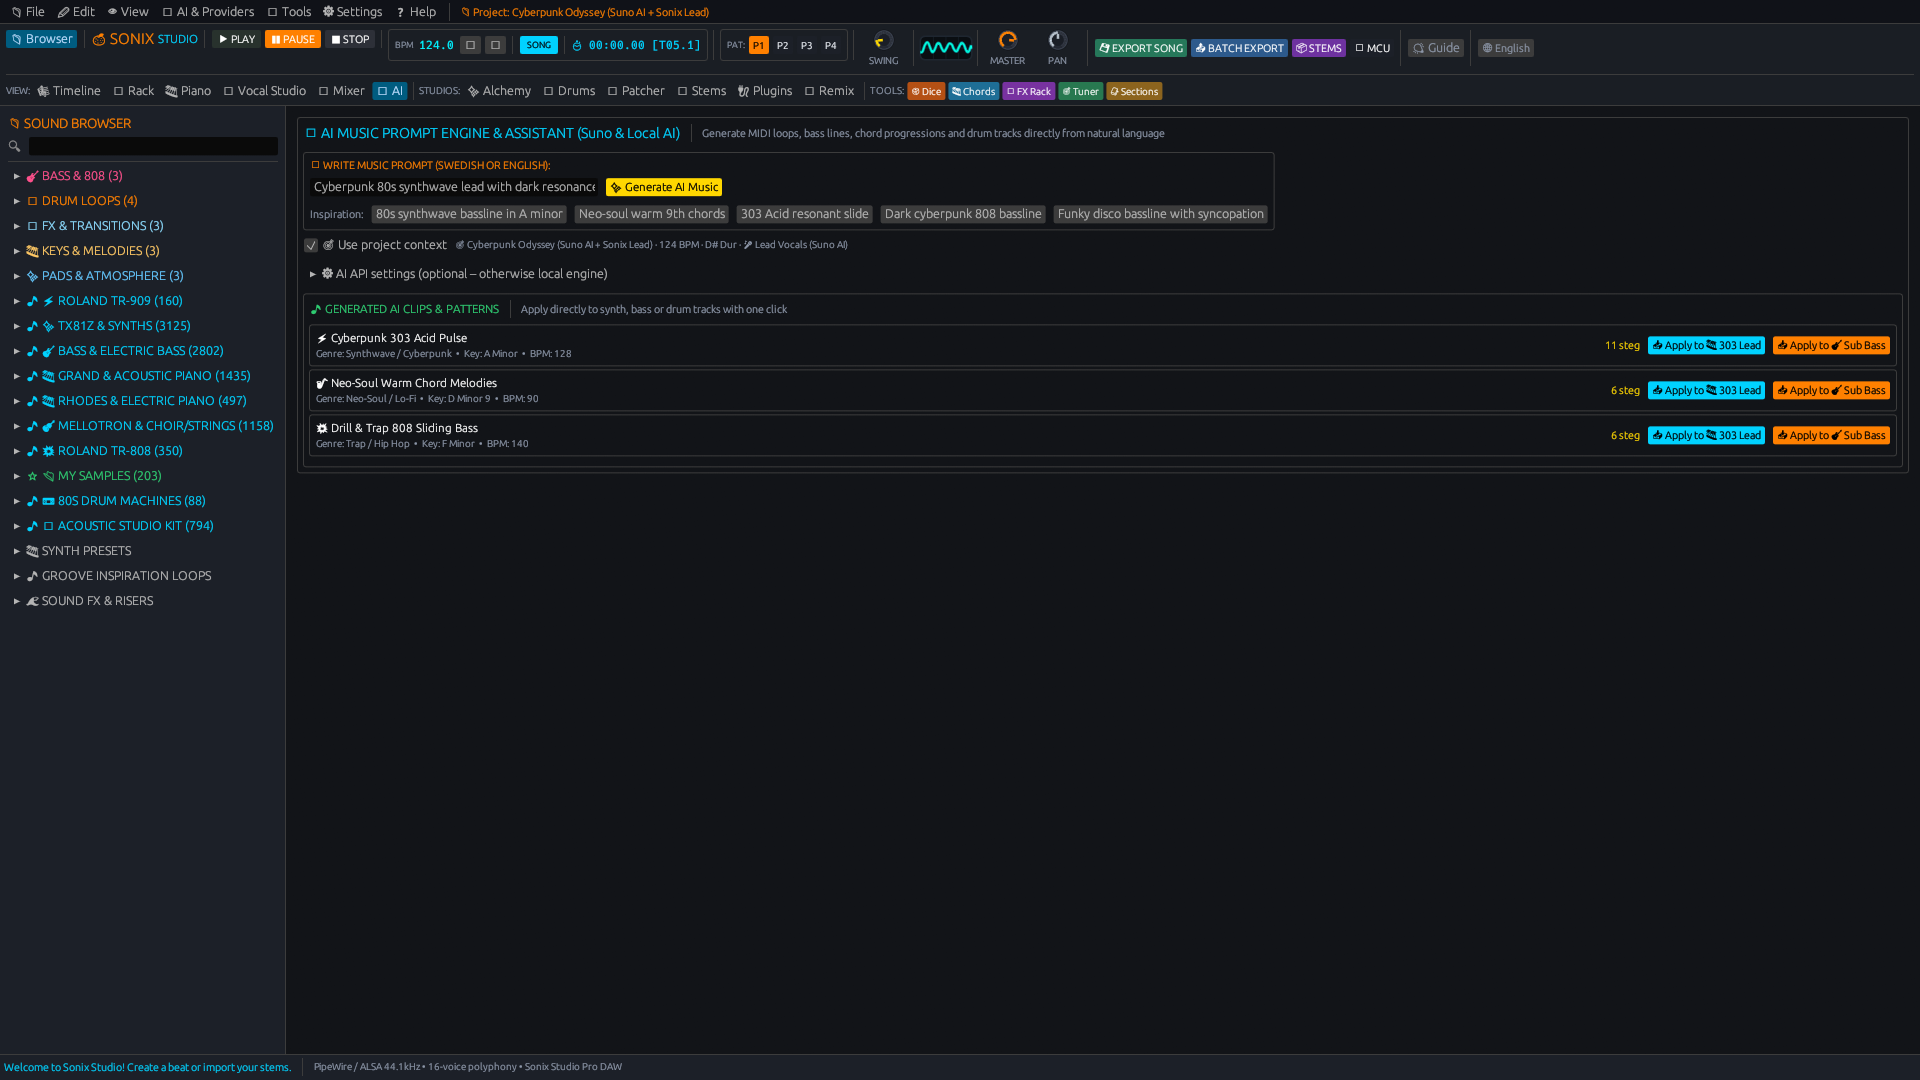
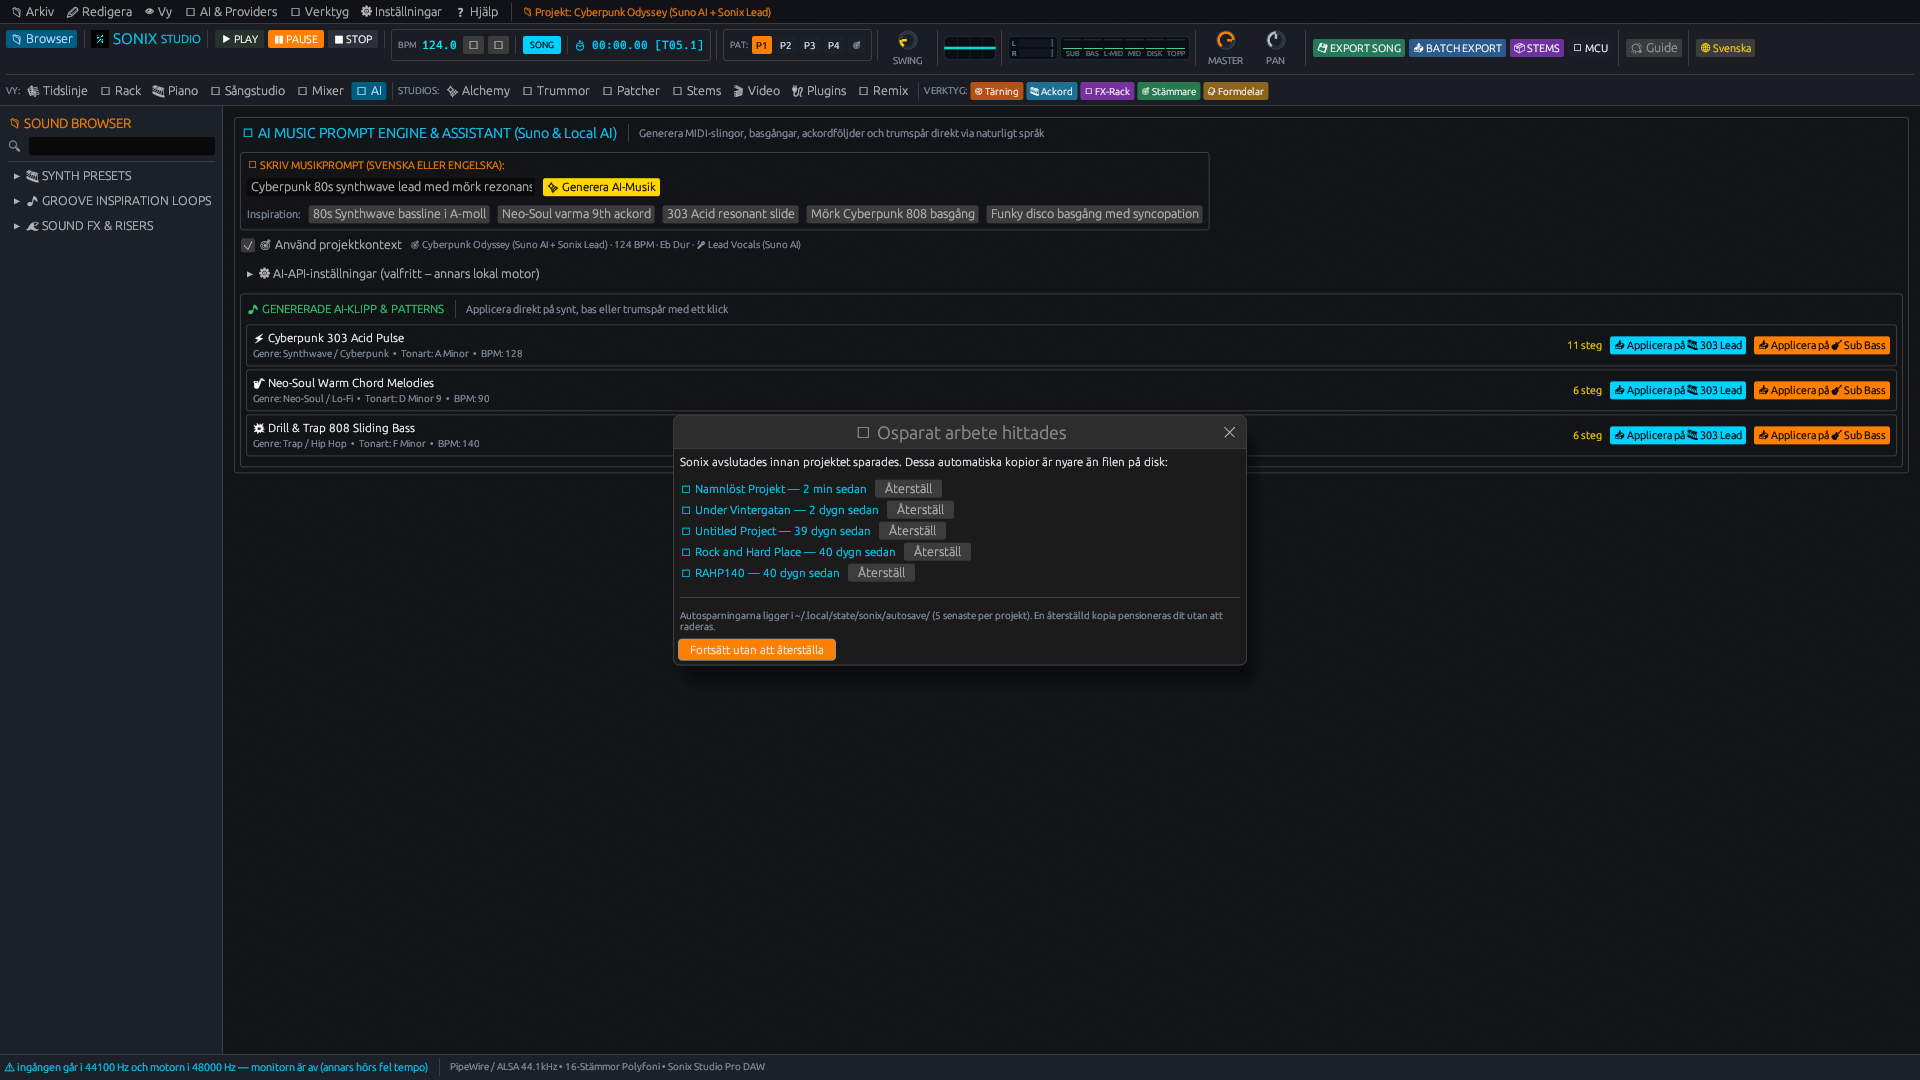
docs: UX-audit — 13 axlar mätta, 362 färger / 22 storlekar / 88 emoji är de tre lagren

diff --git a/UX-AUDIT.md b/UX-AUDIT.md
@@ -1,0 +1,104 @@
+# UX-hantverk: Sonix mot Soundtrap
+
+> Mätt 2026-10-23 på `master` (`bd44ded`). **Vår sida är mätt, deras är observerad.**
+> Våra 30 skärmdumpar är tagna ur den riktiga appen (`sonix --capture-screenshots`, 1920×1080,
+> demoläge) och ligger i [`screenshots/`](screenshots/). Soundtraps studio kräver inloggning, så
+> deras kolumn är läst ur deras egna publicerade studiobilder — siffrorna där är **uppskattningar
+> ur en bild, inte mätningar**. Allt om vår kod är räknat; kommandona står i §6.
+
+## 1. Svaret i en rad
+
+Av 13 hantverksaxlar är **1 i nivå, 6 delvis, 6 inte**. Men de sex som faller är inte sex problem:
+de är **tre lager** — typografi, färg, ikoner — plus en hierarki som faller ut ur dem.
+Det som känns hemsnickrat är alltså inte mängden kod (108 782 rader i `src/`), utan att varje
+skärm får bestämma sina egna storlekar, färger och glyfer.
+
+## 2. Axel för axel
+
+| Axel | Sonix (mätt) | Soundtrap (observerat) | Dom |
+| :--- | :--- | :--- | :---: |
+| Typografisk skala | 22 storlekar, halvsteg (9,5 · 10,5 · 11,5 · 12,5 · 13,5) | ~3 storlekar, en familj, två vikter | ✗ |
+| Färgsystem | 16 tokens i `theme.rs`, men **642 literala `from_rgb` → 362 unika färger i 22 nyanskluster**; 6 accenter som betyder olika saker | 1 accent (violett) + 2 innehållsfärger (röd, ockra), ~10 tokens | ✗ |
+| Ikonografi | **88 distinkta emoji, 1 350 förekomster** i `src/ui`; emoji ligger även i i18n-nycklarna | en linjeikonfamilj, ~1,5 px, 16–20 px stora | ✗ |
+| Komponentfamilj | 12 publika widgetfunktioner mot 235 `pub fn` i `src/ui`; 287 råa `ui.button(`; 5–6 kontrollhöjder i samma rad | en knappfamilj i två storlekar (28–32 px) | ✗ |
+| Primär handling | orange är markering, aktivt steg, primär-CTA **och** avvisa-knapp; i återställningsdialogen är "Fortsätt utan att återställa" den enda fyllda knappen (`modals.rs:952`) | en fylld CTA per yta (Export), allt annat neutralt | ✗ |
+| Lager och fokus | 29 `egui::Window::new`, **0 scrim/dim** — modaler flyter över en fullt upplyst bakgrund | modaler/paneler med egen elevation, bakgrunden dämpas | ✗ |
+| Avståndsrytm | 9 `add_space`-värden, 4/6/8 dominerar; 4 px bas finns | 4/8-bas | ◐ |
+| Panelgrid och linjering | spårrad 46 px; ytterkanter linjerar, inre innehåll glider (master saknar EQ-rad) | spårrader i linje med lanes, fast 3-zonslayout | ◐ |
+| Hover-hjälp | 199 `on_hover_text` mot 287 knappar och 21 vyer | verktygstips på det mesta | ◐ |
+| Tangentbord | 50 unika tangenter, 47 `key_pressed`-ställen, **ingen shortcut-tabell** (0 `consume_shortcut`/`KeyboardShortcut`) | okänt (webb), men dokumenterade genvägar | ◐ |
+| Språk | svensk bas, men engelska etiketter kvar (EXPORT SONG, STEMS, SOUND BROWSER, SWING); 7 språk kompletta | engelska + lokalisering av marknadssidan | ◐ |
+| Första start | demodata + 19 spårmallar + hjälpguide (F1); återställningsdialogen dyker upp i demoläget | låtmallar direkt i starten, guider | ◐ |
+| Mörkt tema och grundpalett | `theme.rs` med 16 namngivna färger, mörka paneler genomgående | mörkt tema, ~6 gråsteg | ✅ |
+
+**Räknat:** 1 ✅ · 6 ◐ · 6 ✗.
+
+## 3. De tre lagren som ger intrycket
+
+### 3.1 Typografin har ingen skala
+22 storlekar, och de ligger på halvsteg (`10.5`, `11.5`, `12.5`) — det är ögat som justerar per skärm,
+inte ett system som väljer. En halv pixel är inte en hierarki; det är 22 beslut som var för sig såg
+rimliga ut.
+**Fix:** fem steg (`10 · 11,5 · 13 · 16 · 20`) i `Theme` som `Type::SMALL/NORMAL/…`, mekanisk
+ersättning av 22 värden. **Mät efter:** `rg -o 'size\(([0-9.]+)\)' src -r '$1' | sort -u | wc -l` → 5.
+
+### 3.2 Färgen är inte ett system
+16 namngivna färger i `theme.rs`, men **642 literala `Color32::from_rgb` ger 362 unika färger**,
+varav 137 är varianter av samma blå nyans (210°). Sex accenter (cyan, orange, grön, gul, lila, röd)
+används både som markering, status, spårfärg och primär handling — samma gul betyder "vald rad" i
+en panel och "aktivt steg" i nästa.
+**Fix:** färg bara via `Theme::` (noll literaler utanför `theme.rs`), och accentrollerna delas upp:
+*markering* / *innehåll* / *status* / *primär*. **Mät efter:**
+`rg -c 'Color32::from_rgb' src -g '*.rs' | awk -F: '{s+=$2} END{print s}'` → 0 utanför `theme.rs`.
+
+### 3.3 Ikonerna är emoji
+**88 distinkta emoji i 1 350 UI-strängar** — 🎹 48 gånger, 🎵 44, ⚡ 44, 🥁 40 … De ritas av egui:s
+emoji-typsnitt, alltså med olika optisk storlek och vikt per glyf, och de sitter **inuti
+i18n-nycklarna** (`"🛟 Osparat arbete hittades"`). Det är därför raderna i menyer och knappar inte
+linjerar optiskt: det finns ingen ikonfamilj, bara text som råkar börja med en bild.
+**Fix:** en `icon()`-hjälpare + ett eget glyfset, och emoji **strippas i renderingslagret** — inte i
+nycklarna, för då måste 2 185 strängar × 7 språk göras om. **Mät efter:**
+`rg -o '"[^"]*"' src/ui | rg -o '\p{Emoji_Presentation}' | sort -u | wc -l` → 0.
+
+## 4. Fyra fynd som är UX-fel, inte smak
+
+1. **Den loudaste knappen i återställningsdialogen är den som kastar arbetet.** "Fortsätt utan att
+   återställa" är den enda fyllda (orange) knappen (`ui/app/modals.rs:952`); "Återställ" är en platt
+   standardknapp. Den primära handlingen ska vara den som räddar arbetet.
+2. **Modaler dämpar inte bakgrunden.** 29 `egui::Window::new` och **noll** scrim/dim i `src/ui`;
+   tidslinjens cyan/magenta klipp konkurrerar med dialogens text (syns i `screenshots/01`).
+3. **Språket är blandat.** "EXPORT SONG", "BATCH EXPORT", "STEMS", "SOUND BROWSER", "SWING",
+   "Guide" står kvar på engelska i en svensk menyrad. Antingen översätts de eller så väljs engelska
+   överallt — nu är det två system i samma rad.
+4. **362 färger betyder att ingen kan säga vad en färg betyder.** När en skärm ska ändras finns ingen
+   sanning att ändra i; man måste leta literaler.
+
+## 5. Det som redan håller
+
+- **Mörkt tema med namngivna panelfärger** — grunden finns, det är användningen som saknar disciplin.
+- **4 px-bas i avstånden** (4/6/8 dominerar) — rytmen är nästan där.
+- **7 kompletta språk** och 2 185 källsträngar: lokaliseringen är byggd, det är etiketterna som är kvar.
+- **Skärmdumpsharnessen** (30 mål, `--capture-screenshots`) — de flesta projekt *kan inte* fotografera
+  sin egen UI; det gör varje påstående i det här dokumentet kontrollerbart.
+- **Informationstätheten** är en DAW-kvalitet, inte ett fel: Soundtrap är glesare för att de gör mindre.
+
+## 6. Så mäts det om
+
+```bash
+rg -o 'size\(([0-9.]+)\)' src -r '$1' -g '*.rs' | sort -u | wc -l          # typografi: 22 → mål 5
+rg --no-filename -c 'Color32::from_rgb' src -g '*.rs' | awk '{s+=$1} END{print s}'   # färg: 642 → mål 0 utanför theme.rs
+rg -o '"[^"]*"' src/ui -g '*.rs' | rg -o '\p{Emoji_Presentation}' | sort -u | wc -l  # ikoner: 88 → mål 0
+rg --no-filename -c 'egui::Window::new' src/ui -g '*.rs' | awk '{s+=$1} END{print s}' # modaler: 29
+rg --no-filename -c 'on_hover_text' src -g '*.rs' | awk '{s+=$1} END{print s}'       # hjälp: 199
+```
+
+## 7. Vad jag inte mätte
+
+- **Soundtraps siffror är ur bilder.** En av bilderna är ett foto av en laptop, så deras pixelmått är
+  normaliserade uppskattningar. Riktningen är säker, decimalerna är det inte.
+- **Inget klick-test.** Jag har inte kört appen och mätt tiden till "första låt" — den mätningen
+  (steg, klick, sekunder) är nästa naturliga prov och säger mer om UX än någon färgräkning.
+- **Kontrast är inte räknat per yta.** `Theme::TEXT_MUTED` används 248 gånger, ofta på 10 px text —
+  misstanken om för låg kontrast är inte verifierad mot WCAG-tal här.
+- **Emoji-räkningen är textbaserad.** Hur de faktiskt ritas (egui:s typsnitt, fallback-glyfer) är
+  bedömt ur skärmdumparna, inte ur teckentabeller.

diff --git a/ROADMAP.md b/ROADMAP.md
@@ -9,7 +9,7 @@
 **Läsordning:** den här filen för läget · [`FL-STUDIO-INVENTORY.md`](FL-STUDIO-INVENTORY.md) och
 [`ABLETON-INVENTORY.md`](ABLETON-INVENTORY.md) för vad de två DAW:erna har ·
 [`SOUNDTRAP-INVENTORY.md`](SOUNDTRAP-INVENTORY.md) för vad en webb-DAW har som vi inte har (samarbete,
-molndelning, innehåll) · `docs/` för de
+molndelning, innehåll) · [`UX-AUDIT.md`](UX-AUDIT.md) för hantverket (typografi, färg, ikoner, mätt) · `docs/` för de
 kompletta referenslistorna (filposter, menyrader, parameterordförråd) · `README.md` för vad
 gränssnittet lovar.
 
